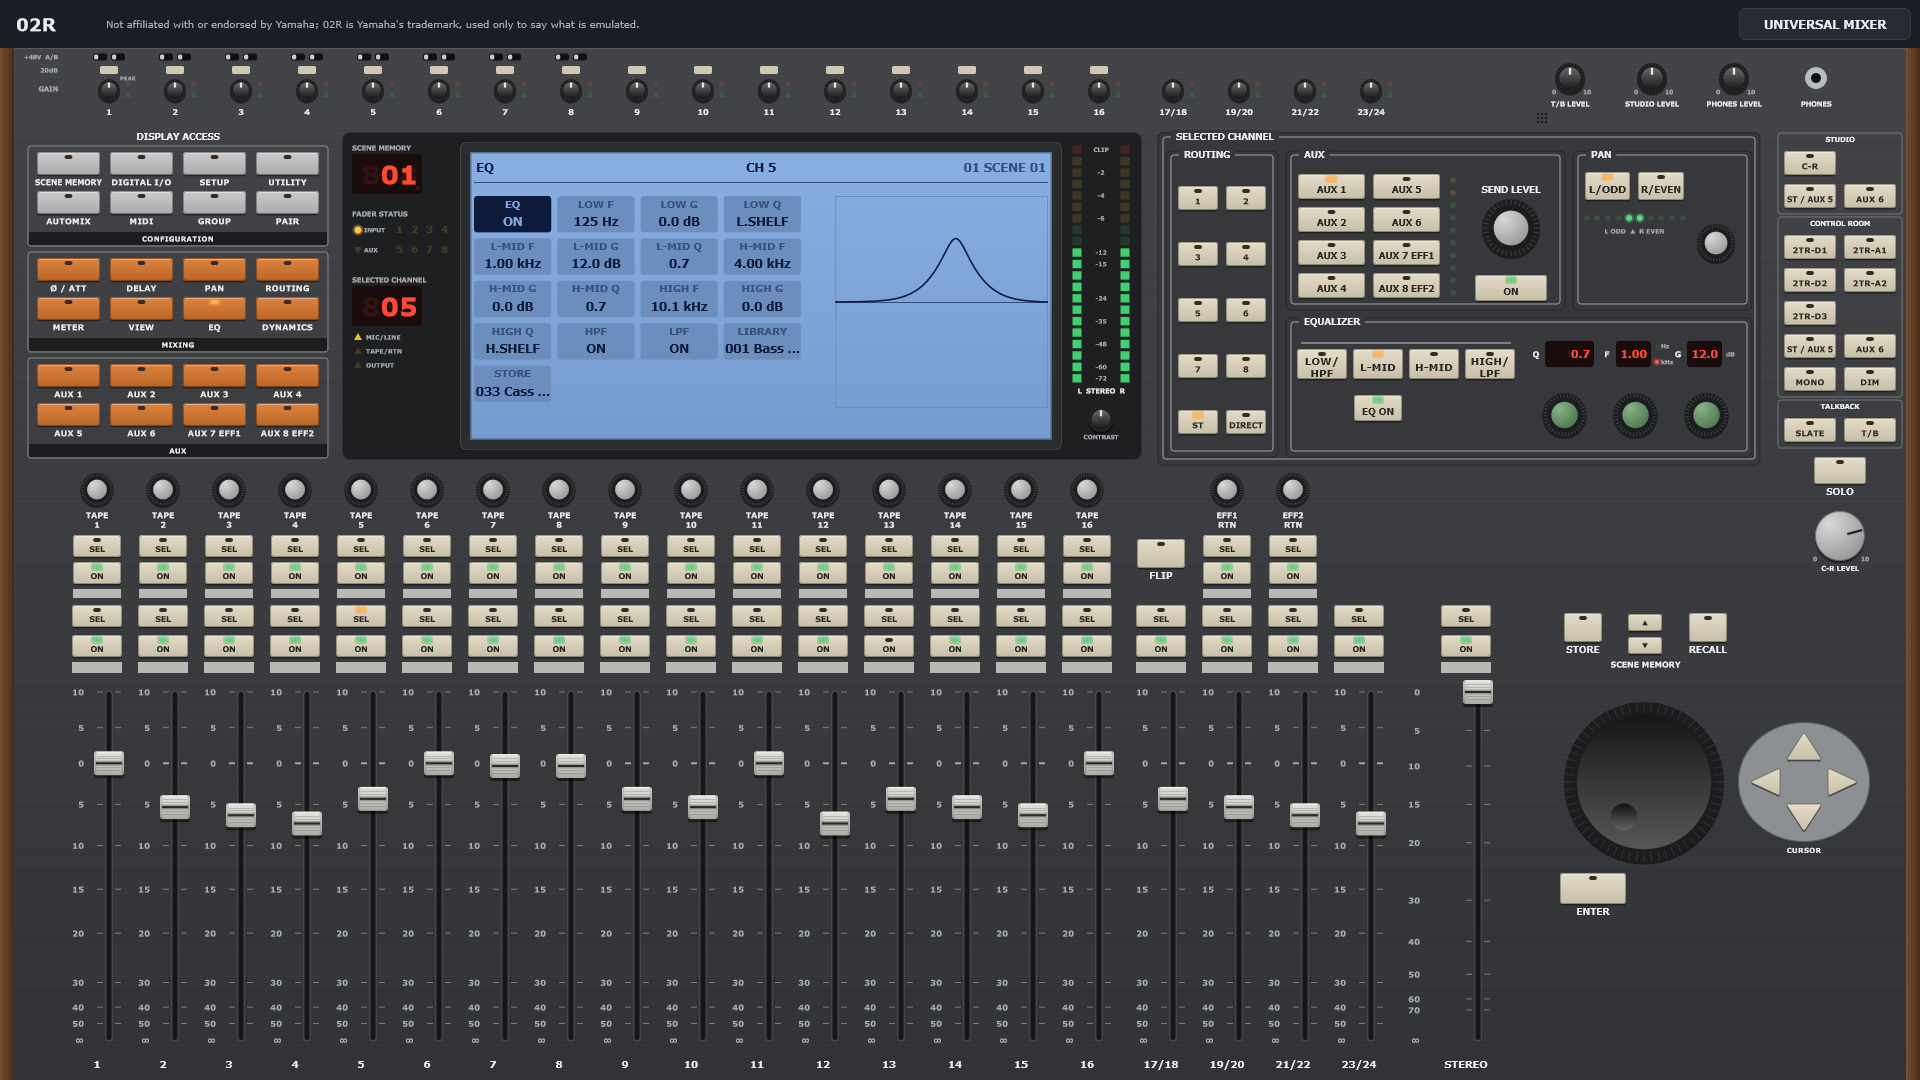
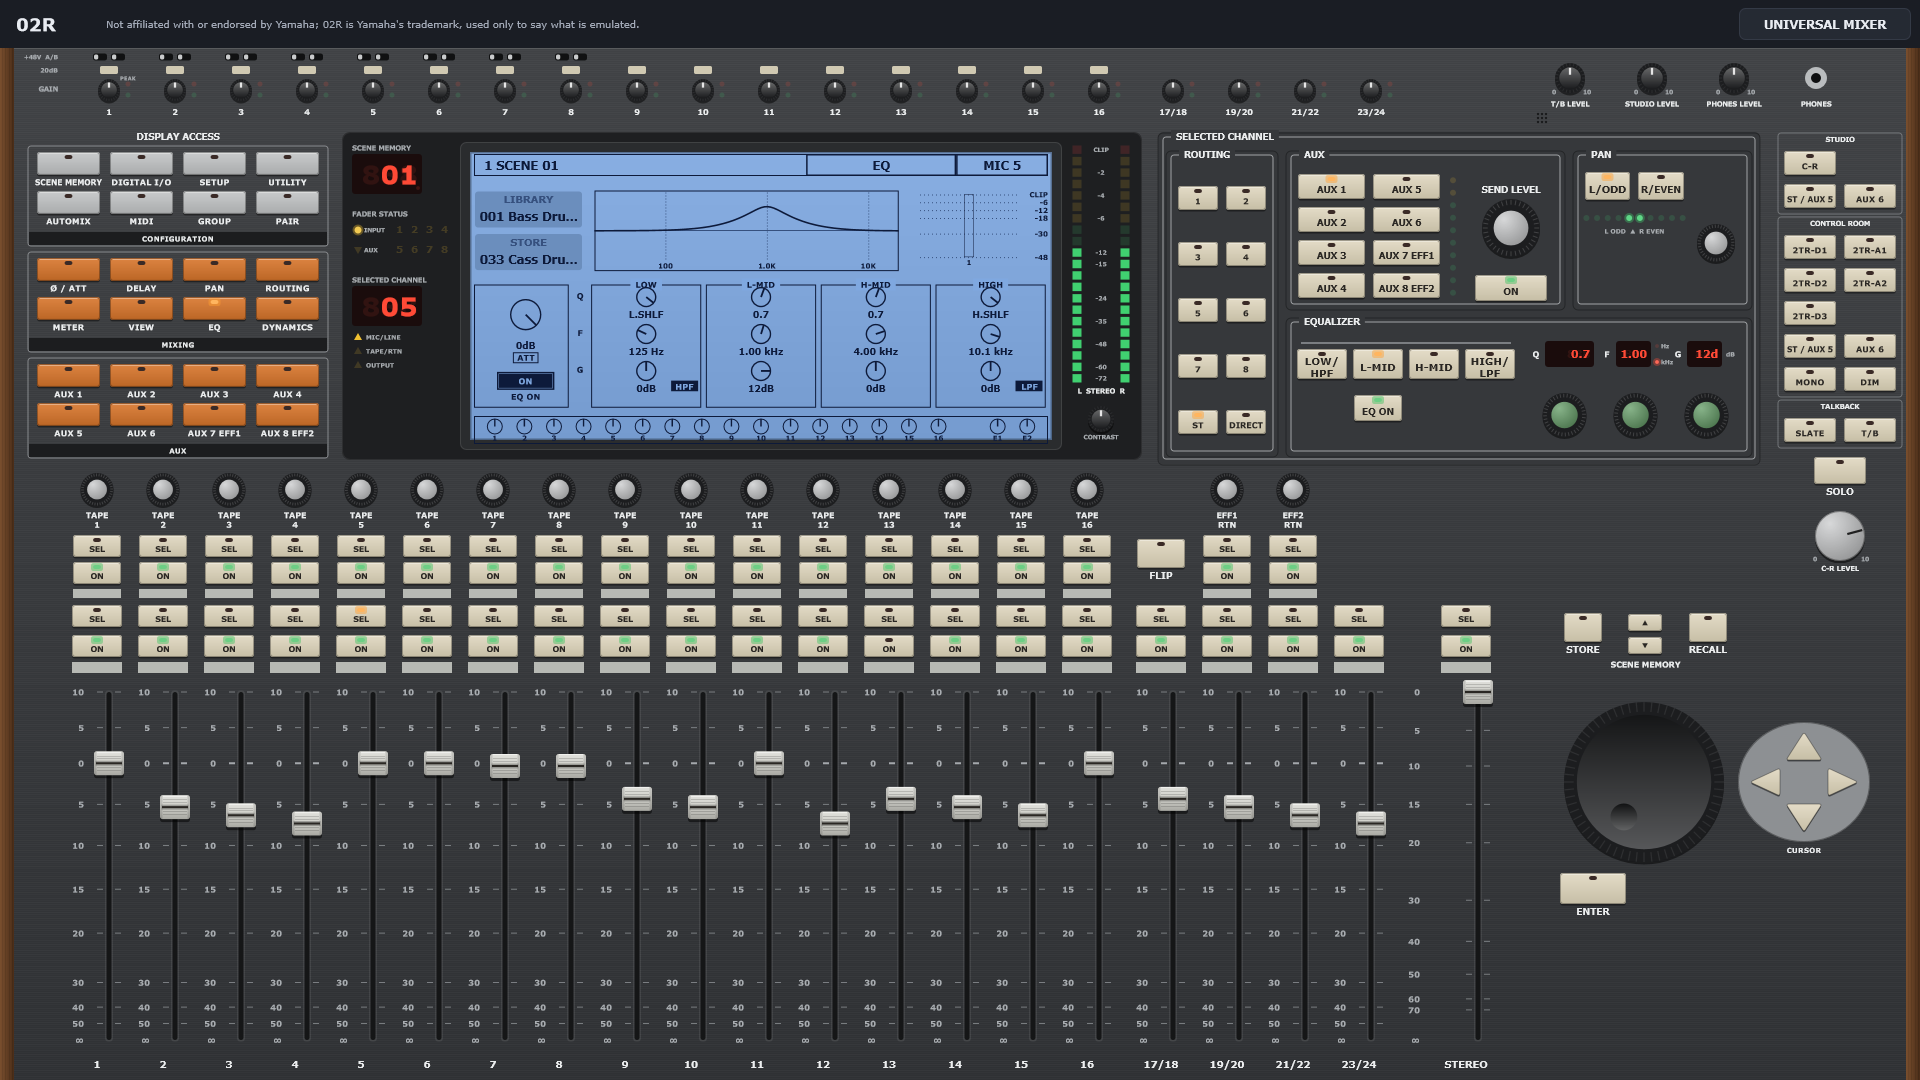
02R title bar, confirmation and values as the manual
The functions' names and page counters as the V2 manual's title bar (the
MIC / TAPE halves not pages), MIC 1 / EFF1 RTN in the channel box, the scene
box unpadded; Please Confirm. over Store to Scene 1?; values as the display
prints them (0dB, 5ms, 1:1, hard, L.SHLF); METER's PRE FAD / POST FAD; an
aux send that's off reads OFF.

Changed region(s): [[0.25, 0.1222, 0.5625, 0.3972], [0.1875, 0.6722, 0.2188, 0.7639]]

diff --git a/src/ui/Y02RSurface.cpp b/src/ui/Y02RSurface.cpp
@@ -54,6 +54,25 @@ namespace
     constexpr int kFirstUser[] = { 32, 40, 40, 0 };
 
     /** A model parameter's step as its value (livedaw_02r's step_param). */
+    /** A value as the display prints it (V2 MAN pp.50, 81): no space before
+        the unit and no ".0" ("0dB", "5ms", "-23dB", "3.5dB"), a ratio as
+        "1:1", the knee "hard", the shelves "L.SHLF" and "H.SHLF". */
+    juce::String displayText (const models::Param& p, float value)
+    {
+        auto t = p.display (value);
+        if (t == "L.SHELF" || t == "H.SHELF")
+            return t.substring (0, 2) + "SHLF";
+        if (t == "HARD")
+            return "hard";
+        if (p.label == "RATIO")
+            return t == "INF" ? t : t.trimCharactersAtEnd ("0").trimCharactersAtEnd (".") + ":1";
+        t = t.removeCharacters (" ");
+        for (const char* unit : { "dB", "ms", "Hz", "s" })
+            if (t.endsWith (unit) && t.dropLastCharacters ((int) strlen (unit)).endsWith (".0"))
+                return t.dropLastCharacters ((int) strlen (unit) + 2) + unit;
+        return t;
+    }
+
     float stepValue (const models::Param& p, int step)
     {
         if (p.isContinuous() && p.steps > 1)
@@ -103,8 +122,9 @@ namespace y02r
 
     juce::String stripName (int s)
     {
+        // As the display's channel box names them (V2 MAN p.19): MIC 1, LINE 17/18, TAPE 1, EFF1, BUS 1, AUX 1, STEREO.
         if (s < 16)
-            return "CH " + juce::String (s + 1);
+            return "MIC " + juce::String (s + 1);
         if (s < kTape)
             return "LINE " + juce::String (17 + 2 * (s - 16)) + "/" + juce::String (18 + 2 * (s - 16));
         if (s < kEff)
@@ -470,7 +490,7 @@ namespace y02r
             f.text = [this, library] (int n) { return juce::String (n + 1).paddedLeft ('0', 3) + " " + y.programName (library, n); };
             f.set = [this, library, target] (int n)
             {
-                confirm (false, "RECALL " + y.programName (library, n) + "?", [this, library, n, target] { y.recall (library, n, target); });
+                confirm (false, "Recall " + y.programName (library, n) + "?", [this, library, n, target] { y.recall (library, n, target); });
             };
             fields.push_back (f);
             storeField (library, target);
@@ -596,7 +616,7 @@ namespace y02r
                     f.get = [this, a] { return y.get (a); };
                     f.set = [this, a] (int v) { y.set (a, v); };
                     f.hi = 127;
-                    f.text = [this, on, aux, levelText] (int v) { return levelText (v) + (((y.get (on) >> aux) & 1) != 0 ? "" : " OFF"); };
+                    f.text = [this, on, aux, levelText] (int v) { return ((y.get (on) >> aux) & 1) != 0 ? levelText (v) : juce::String ("OFF"); }; // OFF in the level's place (p.98)
                     f.action = [this, pre, aux] { y.set (pre, juce::jmax (0, y.get (pre)) ^ (1 << aux)); };
                     // PRE or POST under the value (V2 MAN p.107), PRE lit.
                     f.tagOn = [this, pre, aux] { return ((y.get (pre) >> aux) & 1) != 0; };
@@ -641,7 +661,7 @@ namespace y02r
                 recall.text = programText;
                 recall.set = [this, s, programText] (int n)
                 {
-                    confirm (false, "RECALL " + programText (n) + "?", [this, n, s] { y.recall (Yamaha02R::Channel, n, s); });
+                    confirm (false, "Recall " + programText (n) + "?", [this, n, s] { y.recall (Yamaha02R::Channel, n, s); });
                 };
                 fields.push_back (recall);
                 storeField (Yamaha02R::Channel, s);
@@ -654,7 +674,7 @@ namespace y02r
                 clear.text = programText;
                 clear.set = [this, programText] (int n)
                 {
-                    confirm (true, "CLEAR " + programText (n) + "?", [this, n]
+                    confirm (true, "Clear " + programText (n) + "?", [this, n]
                     {
                         if (y.clearChannel (n) && libraryChanged)
                             libraryChanged();
@@ -760,7 +780,7 @@ namespace y02r
                         on.lo = on.hi = 0;
                         on.action = [this, mode]
                         {
-                            ask (mode > 0 ? "SURROUND OFF?" : "SURROUND ON?", [this, mode]
+                            ask (mode > 0 ? "Surround Off?" : "Surround On?", [this, mode]
                             {
                                 y.setState (Yamaha02R::Surround, 0, mode > 0 ? 0 : surroundMode);
                                 build();
@@ -932,7 +952,7 @@ namespace y02r
                 {
                     const auto p = m.params[(size_t) k];
                     byteField (juce::String (bands[k / 3]) + " " + what[k % 3], address (s, kEq + k), 0, juce::jmax (1, p.steps) - 1,
-                               [p, k] (int v) { return k % 3 == 0 ? freqText (v) : p.display (stepValue (p, v)); });
+                               [p, k] (int v) { return k % 3 == 0 ? freqText (v) : displayText (p, stepValue (p, v)); });
                 }
                 bitField ("HPF", address (s, kSwitches), kHpf);
                 bitField ("LPF", address (s, kSwitches), kLpf);
@@ -953,7 +973,7 @@ namespace y02r
                 for (int k = 0; k < 6 && k < (int) m.params.size(); ++k)
                 {
                     const auto p = m.params[(size_t) k];
-                    byteField (p.label, address (s, kDynParam + k), 0, juce::jmax (1, p.steps) - 1, [p] (int v) { return p.display (stepValue (p, v)); });
+                    byteField (p.label, address (s, kDynParam + k), 0, juce::jmax (1, p.steps) - 1, [p] (int v) { return displayText (p, stepValue (p, v)); });
                 }
                 const char* keys[] = { "SELF-POST EQ", "SELF-PRE EQ", "LEFT-POST EQ", "LEFT-PRE EQ", "AUX 1", "AUX 2", "BUS 1", "BUS 2", "BUS 3", "BUS 4", "BUS 5", "BUS 6", "BUS 7", "BUS 8", "STEREO" };
                 stateField ("KEY IN", Yamaha02R::KeyIn, s, 0, s >= kBus ? 14 : 5, [keys] (int v) { return juce::String (keys[juce::jlimit (0, 14, v)]); });
@@ -1098,7 +1118,7 @@ namespace y02r
                         f.get = [] { return 0; };
                         f.set = [] (int) {};
                         f.text = [name] (int) { return name; };
-                        f.action = [this, n] { confirm (false, "RECALL SCENE " + juce::String (n + 1) + "?", [this, n] { ctx.show.recallScene (n); }); };
+                        f.action = [this, n] { confirm (false, "Recall Scene " + juce::String (n + 1) + "?", [this, n] { ctx.show.recallScene (n); }); };
                         fields.push_back (f);
                     }
                     if (fields.empty())
@@ -1226,7 +1246,7 @@ namespace y02r
                         for (int c : nameChars)
                             title << kTitleChars[c];
                         const auto stored = title.trimEnd();
-                        confirm (true, "STORE TO " + juce::String (nameProgram + 1) + "?", [this, stored, library = nameLibrary, n = nameProgram, target = nameTarget]
+                        confirm (true, "Store to " + juce::String (nameProgram + 1) + "?", [this, stored, library = nameLibrary, n = nameProgram, target = nameTarget]
                         {
                             y.store (library, n, target, stored);
                             if (libraryChanged)
@@ -1345,8 +1365,8 @@ namespace y02r
                 fields.push_back ({ "METER POINT", [this] { return meterPoint; }, [this] (int v) { meterPoint = v; },
                                     [this] (int v)
                                     {
-                                        const char* in[] = { "PRE EQ", "POST EQ", "POST FADER" };
-                                        const char* out[] = { "PRE FADER", "PRE FADER", "POST FADER" };
+                                        const char* in[] = { "PRE EQ", "POST EQ", "POST FAD" }; // as p.40 abbreviates them
+                                        const char* out[] = { "PRE FAD", "PRE FAD", "POST FAD" };
                                         return juce::String (page == 2 ? out[v] : in[v]);
                                     },
                                     0, 2 });
@@ -1405,24 +1425,23 @@ namespace y02r
 
     juce::String Display::title() const
     {
-        const char* names[] = { "SCENE MEMORY", "UTILITY", "MIDI", "GROUP", "PAIR", "PHASE / ATT", "DELAY", "PAN", "ROUTING", "METER", "VIEW",
-                                "EQ", "DYNAMICS", "AUX 1", "AUX 2", "AUX 3", "AUX 4", "AUX 5", "AUX 6", "AUX 7 (EFF1)", "AUX 8 (EFF2)" };
+        // The function's name and its page as the manual's title bar has them
+        // (V2 MAN pp.19, 32-37, 97, 104): a strip's MIC and TAPE halves aren't
+        // pages (ATT 1/1, AUX 1 1/1), nor is the selected strip's AUX page;
+        // AUX 7/8's effect EDIT is 2/3.
+        const char* names[] = { "SCENE", "UTILITY", "MIDI", "GROUP", "PAIR", "\xce\xa6/ATT", "DELAY", "PAN", "ROUTING", "METER", "VIEW",
+                                "EQ", "DYNAMICS", "AUX 1", "AUX 2", "AUX 3", "AUX 4", "AUX 5", "AUX 6", "AUX 7", "AUX 8" };
         const char* more[] = { "DIGITAL I/O", "SETUP", "AUTOMIX", "TITLE EDIT" };
         const int f = (int) function;
-        if (function == Function::View && page == 1)
-            return "CHANNEL LIBRARY  2/2";
-        if (function == Function::Routing && page > 0)
-        {
-            const char* pages[] = { "", "SURROUND", "SURROUND PAN", "TRAJECTORY" };
-            return "ROUTING " + juce::String (page + 1) + "/" + juce::String (numPages()) + "  " + pages[juce::jlimit (0, 3, page)];
-        }
-        if (function == Function::Setup)
-        {
-            const char* setup[] = { "SOLO", "AUX OUTPUT SELECT", "PREFERENCES 1", "PREFERENCES 2" };
-            return juce::String ("SETUP ") + juce::String (page + 1) + "/4  " + setup[juce::jlimit (0, 3, page)];
-        }
-        const juce::String name = f < (int) std::size (names) ? juce::String (names[f]) : juce::String (more[f - (int) std::size (names)]);
-        return numPages() > 1 ? name + "  " + juce::String (page + 1) + "/" + juce::String (numPages()) : name;
+        const juce::String name = juce::String::fromUTF8 (f < (int) std::size (names) ? names[f] : more[f - (int) std::size (names)]);
+        auto counted = [&name] (int at, int of) { return name + "  " + juce::String (at) + "/" + juce::String (of); };
+        const bool aux = function >= Function::Aux1 && function <= Function::Aux8;
+        const bool effectAux = function >= Function::Aux7 && function <= Function::Aux8;
+        if (function == Function::Att || function == Function::Delay || function == Function::Pan)
+            return counted (1, 1);
+        if (aux)
+            return effectAux ? counted (page == 3 ? 2 : 1, 3) : counted (1, 1);
+        return numPages() > 1 ? counted (page + 1, numPages()) : name;
     }
 
     void Display::cursor (int delta)
@@ -2384,7 +2403,7 @@ namespace y02r
         g.setFont (type::font (type::kLabel, true));
         const auto channel = top.removeFromRight (juce::jmax (90.0f, top.getWidth() * 0.16f));
         g.drawRect (channel, 1.5f);
-        g.drawText (stripName (strip), channel, juce::Justification::centred);
+        g.drawText (strip >= kEff && strip < kBus ? stripName (strip) + " RTN" : stripName (strip), channel, juce::Justification::centred); // "EFF1 RTN" (p.206)
         const auto name = title();
         const auto titleBox = top.removeFromRight (juce::jmax (150.0f, juce::GlyphArrangement::getStringWidth (type::font (type::kLabel, true), name) + 24.0f));
         g.drawRect (titleBox, 1.5f);
@@ -2468,14 +2487,17 @@ namespace y02r
             paintField (g, i);
         if (confirmGo != nullptr)
         {
-            // The confirmation dialog over the page: its question, CANCEL and EXECUTE.
-            auto box = b.withSizeKeepingCentre (b.getWidth() * 0.6f, 120.0f);
+            // The confirmation dialog over the page (V2 MAN p.126): "Please Confirm."
+            // over its question ("Store to Scene 1?"), CANCEL and EXECUTE.
+            auto box = b.withSizeKeepingCentre (b.getWidth() * 0.6f, 140.0f);
             g.setColour (kLcd.withAlpha (1.0f).brighter (0.08f)); // opaque: the page under it hidden
             g.fillRect (box);
             g.setColour (kPixel);
             g.drawRect (box, 2.0f);
+            g.setFont (type::font (type::kLabel + 2.0f, true));
+            g.drawText ("Please Confirm.", box.removeFromTop (40.0f).reduced (10.0f, 0.0f), juce::Justification::centred);
             g.setFont (type::font (type::kLabel, true));
-            g.drawText (confirmText, box.removeFromTop (60.0f).reduced (10.0f, 0.0f), juce::Justification::centred);
+            g.drawText (confirmText, box.removeFromTop (40.0f).reduced (10.0f, 0.0f), juce::Justification::centred);
             auto row = box.reduced (20.0f, 14.0f);
             for (int k = 0; k < 2; ++k)
             {
@@ -3036,7 +3058,7 @@ Y02RSurface::Y02RSurface (UiContext& c)
             if (m < 0)
                 return juce::String (v);
             const auto& p = models::model (models::ChannelEq, m).params[(size_t) (3 * display.band + what)];
-            return p.display (stepValue (p, v));
+            return displayText (p, stepValue (p, v));
         };
         e->cap = juce::Colour (0xff5f9a62);
         e->onTouch = [this] { autoDisplay (y02r::AutoEq, y02r::Function::Eq); };
@@ -3130,7 +3152,7 @@ Y02RSurface::Y02RSurface (UiContext& c)
     {
         const int current = ctx.show.getCurrentSceneIndex();
         auto scene = current >= 0 ? ctx.show.getScene (current) : std::nullopt;
-        return current >= 0 && scene.has_value() ? juce::String (current + 1).paddedLeft ('0', 2) + " " + scene->name : juce::String ("00 Initial Data");
+        return current >= 0 && scene.has_value() ? juce::String (current + 1) + " " + scene->name : juce::String ("0 Initial Data"); // unpadded, as p.19
     };
     addAndMakeVisible (display);
 
@@ -3274,7 +3296,7 @@ void Y02RSurface::store()
     // the show has fewer.
     if (memory < 1)
         return;
-    display.confirm (true, "STORE SCENE " + juce::String (memory).paddedLeft ('0', 2) + "?", [this, index = memory - 1]
+    display.confirm (true, "Store to Scene " + juce::String (memory) + "?", [this, index = memory - 1]
     {
         if (index < ctx.show.getNumScenes())
             ctx.show.storeScene (index);
@@ -3288,7 +3310,7 @@ void Y02RSurface::recall()
 {
     if (memory > 0 && memory - 1 >= ctx.show.getNumScenes())
         return;
-    display.confirm (false, "RECALL SCENE " + juce::String (memory).paddedLeft ('0', 2) + "?", [this, m = memory]
+    display.confirm (false, "Recall Scene " + juce::String (memory) + "?", [this, m = memory]
     {
         if (m == 0)
         {

diff --git a/CHANGELOG.md b/CHANGELOG.md
@@ -184,6 +184,12 @@ Phase 4, the X32 (`docs/UNIVERSAL_MIXER.md`), begins.
 
 Phase 5, the Yamaha ProMix 01 (`docs/UNIVERSAL_MIXER.md`), begins.
 
+- 02R title bar and values as the V2 manual: the functions named SCENE, Φ/ATT, AUX 7 and
+  VIEW 2/2, the MIC / TAPE halves not counted as pages (ATT 1/1, AUX 7 1/3, its effect
+  EDIT 2/3), the channel box "MIC 1" and "EFF1 RTN", the scene box unpadded ("1 SCENE 01",
+  "0 Initial Data"); the confirmation "Please Confirm." over "Store to Scene 1?"; values
+  as the display prints them ("0dB", "5ms", "1:1", "hard", "L.SHLF", "H.SHLF"); METER's
+  "PRE FAD" / "POST FAD"; an aux send that's off reads OFF.
 - ProMix CUE for every strip as pp.52-54 (a channel, ST IN with its dual pan and sends,
   RTN1-2 and ST OUT with their balance): the groups A-D as squares, PHASE and PAN as
   headings, COMPn:ON when a processor is patched, the meters captioned with the strip
